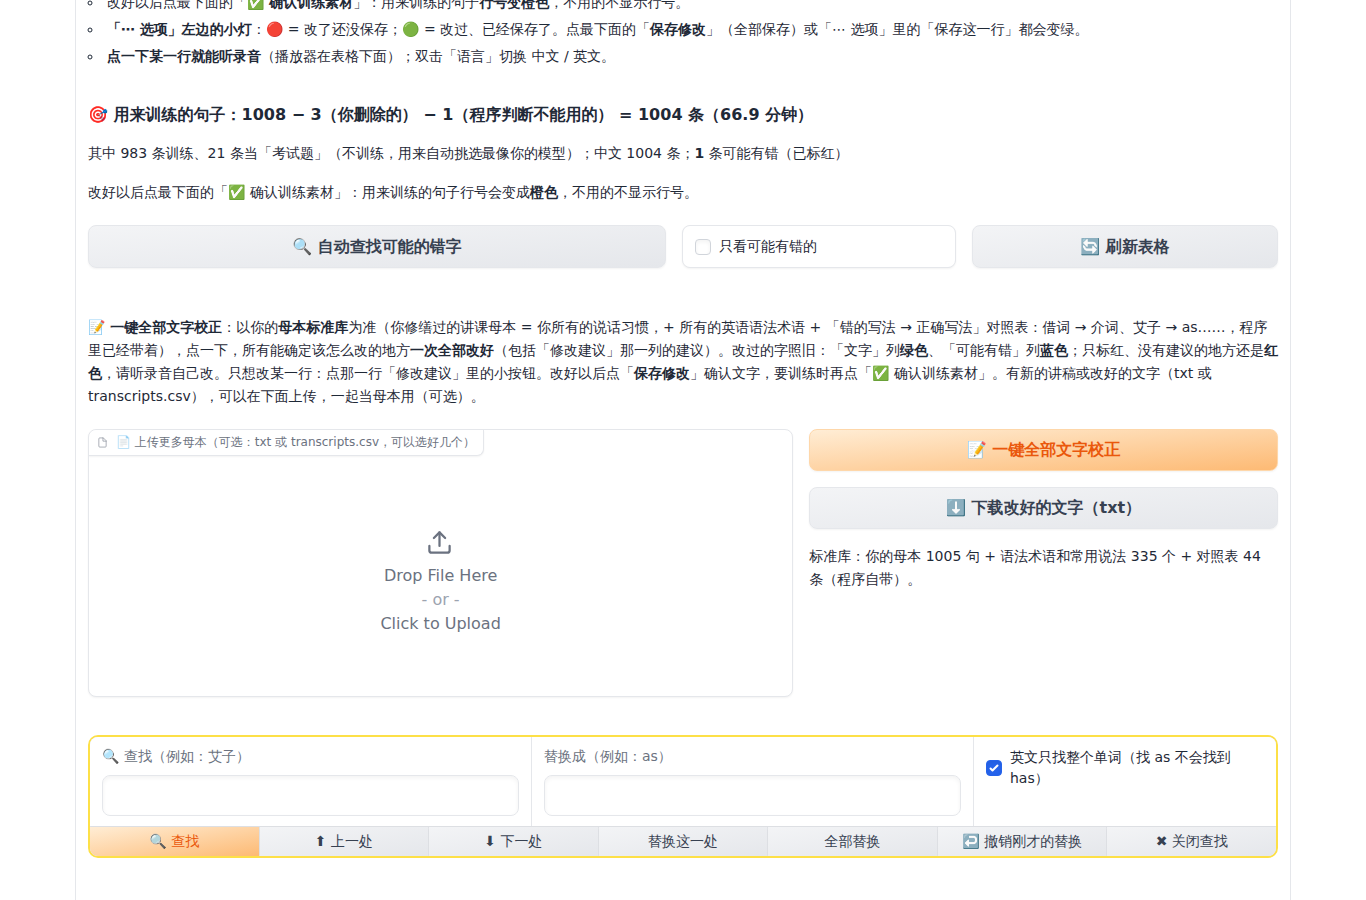
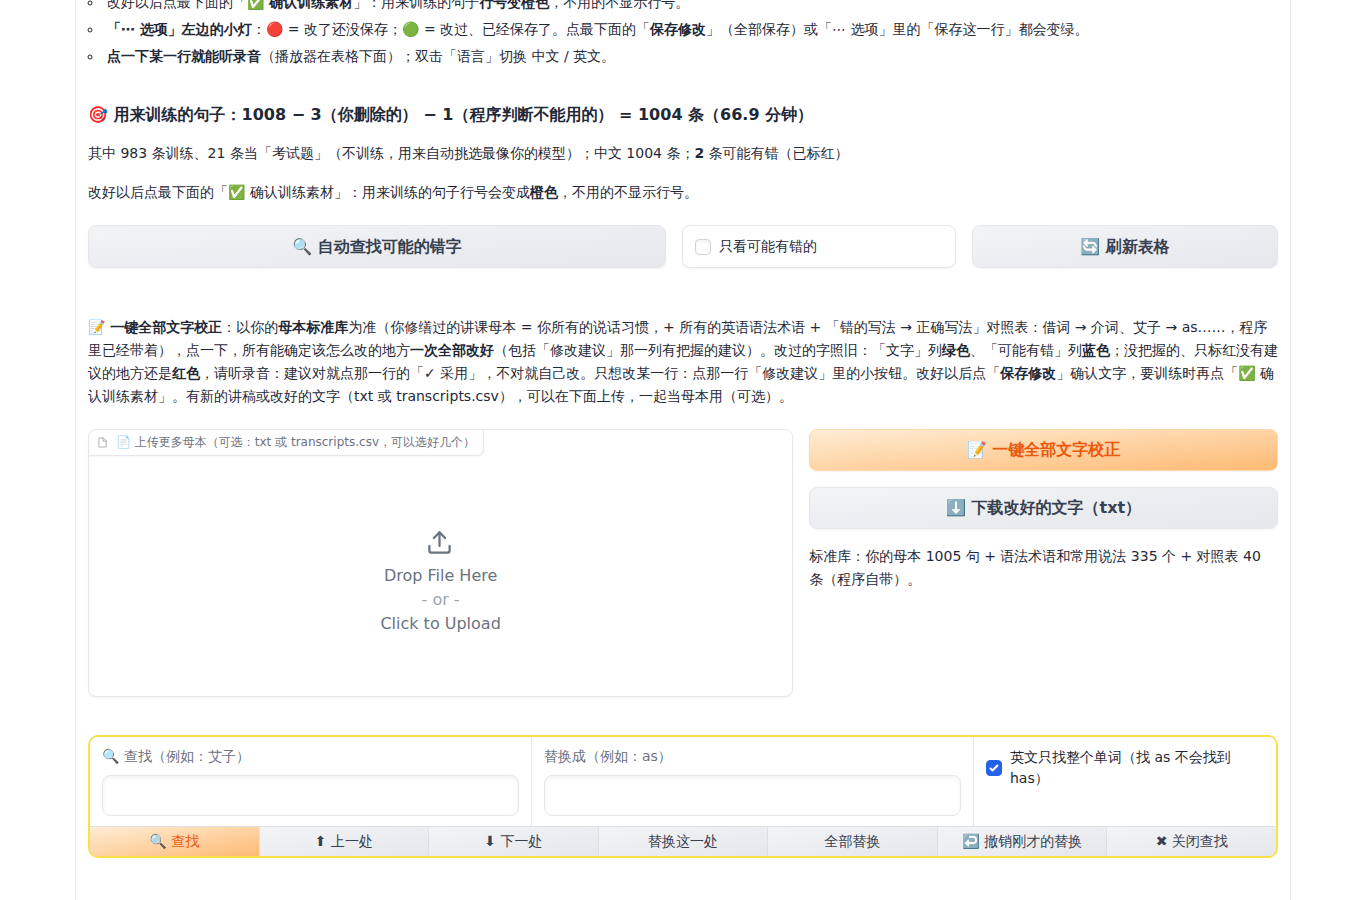
v18.5（修复中）：表格上方「可能有错」按显示的文字算；结果说明和下载说明的用词；浏览器实测 21/21
- 一键校正改好、还没保存的行不再算「可能有错」（以前按保存的文字算，改好的 123 条也算进去）
- 「把修改建议一次全部采用」改成「有把握的也一起采用了」；下载说明里的按钮名改成「📝 一键全部文字校正」
- 浏览器实测加两条：标准库能证明的自动查错字建议（威驰 → which）一起采用、证明不了的（多一个「到」）还是红色；
  表格上方只剩 1 条可能有错；顺便生成快速上手用的截图

Claude-Session: https://claude.ai/code/session_01PwXvLynw8dAvAfJEJKMB77

Changed region(s): [[0.0615, 0.3733, 0.9531, 0.4667]]

diff --git a/voicetwin/webui/app.py b/voicetwin/webui/app.py
@@ -1299,12 +1299,13 @@ def _render_diff(text: str, alt: str, spans: Any = None, transcript: bool = Fals
             f'<div class="vt-diff-row"><span class="vt-diff-tag">识别 B：</span>{"".join(b_out)}</div>')
 
 
-def _suspect(rec: Dict[str, Any]) -> Dict[str, Any]:
-    """这一条还算不算「可能有错」：还有没改过的红字、或者还有没采用的建议（改过的地方不算）。"""
+def _suspect(rec: Dict[str, Any], text: Optional[str] = None) -> Dict[str, Any]:
+    """这一条还算不算「可能有错」：还有没改过的红字、或者还有没采用的建议（改过的地方不算）。
+    text：表格里显示的文字（有没保存的修改就是改过的那句；不给就用保存的）。"""
     s = rec.get("suspect")
     if not (isinstance(s, dict) and (s.get("spans") or s.get("alt") or s.get("reasons"))):
         return {}
-    return s if _review.analyze(rec)["active"] else {}
+    return s if _review.analyze(rec, text)["active"] else {}
 
 
 def _colored_html(info: Dict[str, Any]) -> str:
@@ -1486,7 +1487,9 @@ def _clips_count_md(cfg: Config, voice: Any) -> str:
         return "还没有片段，请先点上面的「开始准备素材」。"
     c = _review.material_counts(records)
     material = [r for r in records if _review.is_material(r)]
-    sus = sum(1 for r in records if not r.get("deleted") and _suspect(r))
+    draft = _review.load_draft(project)  # 和表格一样按显示的文字算（一键校正改好、还没保存的不算可能有错）
+    sus = sum(1 for r in records if not r.get("deleted")
+              and _suspect(r, _review.current_values(r, draft.get(r.get("id")))["text"]))
     by_lang: Dict[str, int] = {}
     for r in material:
         by_lang[r.get("lang", "")] = by_lang.get(r.get("lang", ""), 0) + 1
@@ -3186,7 +3189,7 @@ class WebUI:
         if fixes:
             parts.append(f"按母本标准库直接改好 **{fixes}** 处（{_int(r.get('fixed_rows'))} 条）")
         if adopted:
-            parts.append(f"把「修改建议」一次全部采用：**{adopted}** 处（{ad_rows} 条）")
+            parts.append(f"「修改建议」里有把握的也一起采用了：**{adopted}** 处（{ad_rows} 条）")
         elif found and not ad:
             parts.append(f"另外 **{found}** 条标红给了建议")
         unsure = _int(ad.get("unsure"))
@@ -3290,7 +3293,7 @@ class WebUI:
         md = (f"⬇ 已经把 **{res['lines']}** 句改好的文字存成 txt（一行一句，按表格的顺序"
               + (f"；紫色删除的 {res['deleted']} 句不在里面" if res.get("deleted") else "")
               + f"），浏览器会自动下载。电脑上也存了一份：`{_md_text(res['path'])}`"
-              "\n\n下次可以把它当逐字稿上传，点「📝 文字校正」。")
+              "\n\n下次可以把它当母本上传（「上传更多母本」那里），再点「📝 一键全部文字校正」。")
         if res.get("unsaved"):
             md += (f"\n\n🔴 其中 **{res['unsaved']}** 条修改还没保存（文件里是改过的样子）：记得点下面的「保存修改」，"
                    "不然训练时不会用这些修改。")

diff --git a/research/过程文件/04_浏览器实测/m29_v18.5一键文字校正/check.py b/research/过程文件/04_浏览器实测/m29_v18.5一键文字校正/check.py
@@ -95,9 +95,12 @@ def main():
         check("证明不了的建议（多一个「到」）没有自动采用：还是红色、有建议，结果说明写着没有把握",
               list(ORIG)[2] not in d and info2["edits"] and not info2["sure"] and "没有把握" in md,
               str(info2["edits"]))
-        summary = [ln for ln in md.splitlines() if "一共改了" in ln or "直接改好" in ln or "全部采用" in ln]
+        summary = [ln for ln in md.splitlines() if "一共改了" in ln or "直接改好" in ln or "一起采用了" in ln]
         check("结果说明写着改了多少处、下一步点保存修改", bool(summary) and "保存修改" in md and "确认训练素材" in md,
               " / ".join(summary[:3]))
+        cnt = wait_text(page, "body", ["条可能有错"], 10)
+        line = next((ln for ln in cnt.splitlines() if "条可能有错" in ln), "")
+        check("表格上方的「可能有错」只算还没改的（改好、没保存的不算）：只剩那 1 条没把握的", "1 条可能有错" in line, line[-60:])
         page.screenshot(path=str(SHOTS / "02_done.png"), full_page=False)
 
         # 表格：只看可能有错的 → 第一处改过的行：绿色 / 蓝色 / 红灯
@@ -159,6 +162,17 @@ def main():
         check("上传 txt 母本以后再点一次也能用，按钮下面写着上传的文件", "新讲稿.txt" in info and "没有完成" not in md, info[-60:])
         check("改好、保存过的句子不会再被改（这次没有新的没保存的修改）", not draft(), str(list(draft())[:3]))
         page.screenshot(path=str(SHOTS / "05_uploaded.png"))
+        # 快速上手用的截图（docs/manual/images/03c_textfix.png）：说明 + 上传框 + 两个按钮 + 标准库那行字
+        boxes = [page.locator(sel).first.bounding_box() for sel in
+                 (".vt-textfix-help", "#vt-tr-files", "#vt-tr-btn", ".vt-tr-info")]
+        boxes = [b for b in boxes if b]
+        if boxes:
+            x0, y0 = min(b["x"] for b in boxes) - 8, min(b["y"] for b in boxes) - 8
+            x1 = max(b["x"] + b["width"] for b in boxes) + 8
+            y1 = max(b["y"] + b["height"] for b in boxes) + 8
+            sy = page.evaluate("() => window.scrollY")  # bounding_box 是相对窗口的；整页截图要加上滚动的距离
+            page.screenshot(path=str(SHOTS / "03c_textfix.png"), full_page=True,
+                            clip={"x": max(0, x0), "y": max(0, y0 + sy), "width": x1 - max(0, x0), "height": y1 - y0})
         check("网页上没有脚本错误", not errors, errors[:3])
         browser.close()
     passed = sum(1 for _, ok, _ in RESULTS if ok)

diff --git a/tests/test_transcript_fix.py b/tests/test_transcript_fix.py
@@ -622,3 +622,17 @@ def test_teacher_uploads_her_raw_transcripts_csv_again(tmp_path):
     review.save_rows(project)
     res2 = wf.run_transcript_fix(cfg, "老师")
     assert review.load_draft(project) == {} and res2["fixes"] == 0 and res2["adopted"]["changes"] == 0
+
+
+@need_both
+def test_clip_count_after_one_click_only_counts_rows_still_wrong(tmp_path):
+    """表格上方「N 条可能有错」：一键校正改好、还没保存的不算（以前按保存的文字算，改好的 123 条也算进去了）。"""
+    pytest.importorskip("gradio")
+    from voicetwin.webui.app import _clips_count_md
+
+    cfg, project = _voice(tmp_path, ["小明昨天说借词后面接名词", "今天李华同学回答得很好"])
+    recs = project.load_manifest()
+    recs[1]["suspect"] = {"spans": [[2, 4]], "alt": "今天理化同学回答得很好", "reasons": ["另一个引擎"], "score": 0.6}
+    project.save_manifest(recs)
+    wf.run_transcript_fix(cfg, "校正声音")
+    assert "**1** 条可能有错" in _clips_count_md(cfg, "校正声音")  # 只剩没把握的那一条

diff --git a/voicetwin/data/transcript_fix.py b/voicetwin/data/transcript_fix.py
@@ -182,7 +182,7 @@ def save_transcripts(project: Any, paths: Iterable[Any]) -> Dict[str, Any]:
         raise ValueError("母本没有存上：" + "；".join(bad) + "。请上传记事本保存的 .txt 文件，或者声音文件夹里的 "
                          "transcripts.csv（Word 文档可以先「另存为」纯文本 .txt）。")
     if not items:
-        raise ValueError("没有收到母本文件，请先选好文件再点「文字校正」。")
+        raise ValueError("没有收到母本文件，请先选好文件再点「📝 一键全部文字校正」。")
     folder = transcript_dir(project)
     if folder.exists():
         shutil.rmtree(folder, ignore_errors=True)
